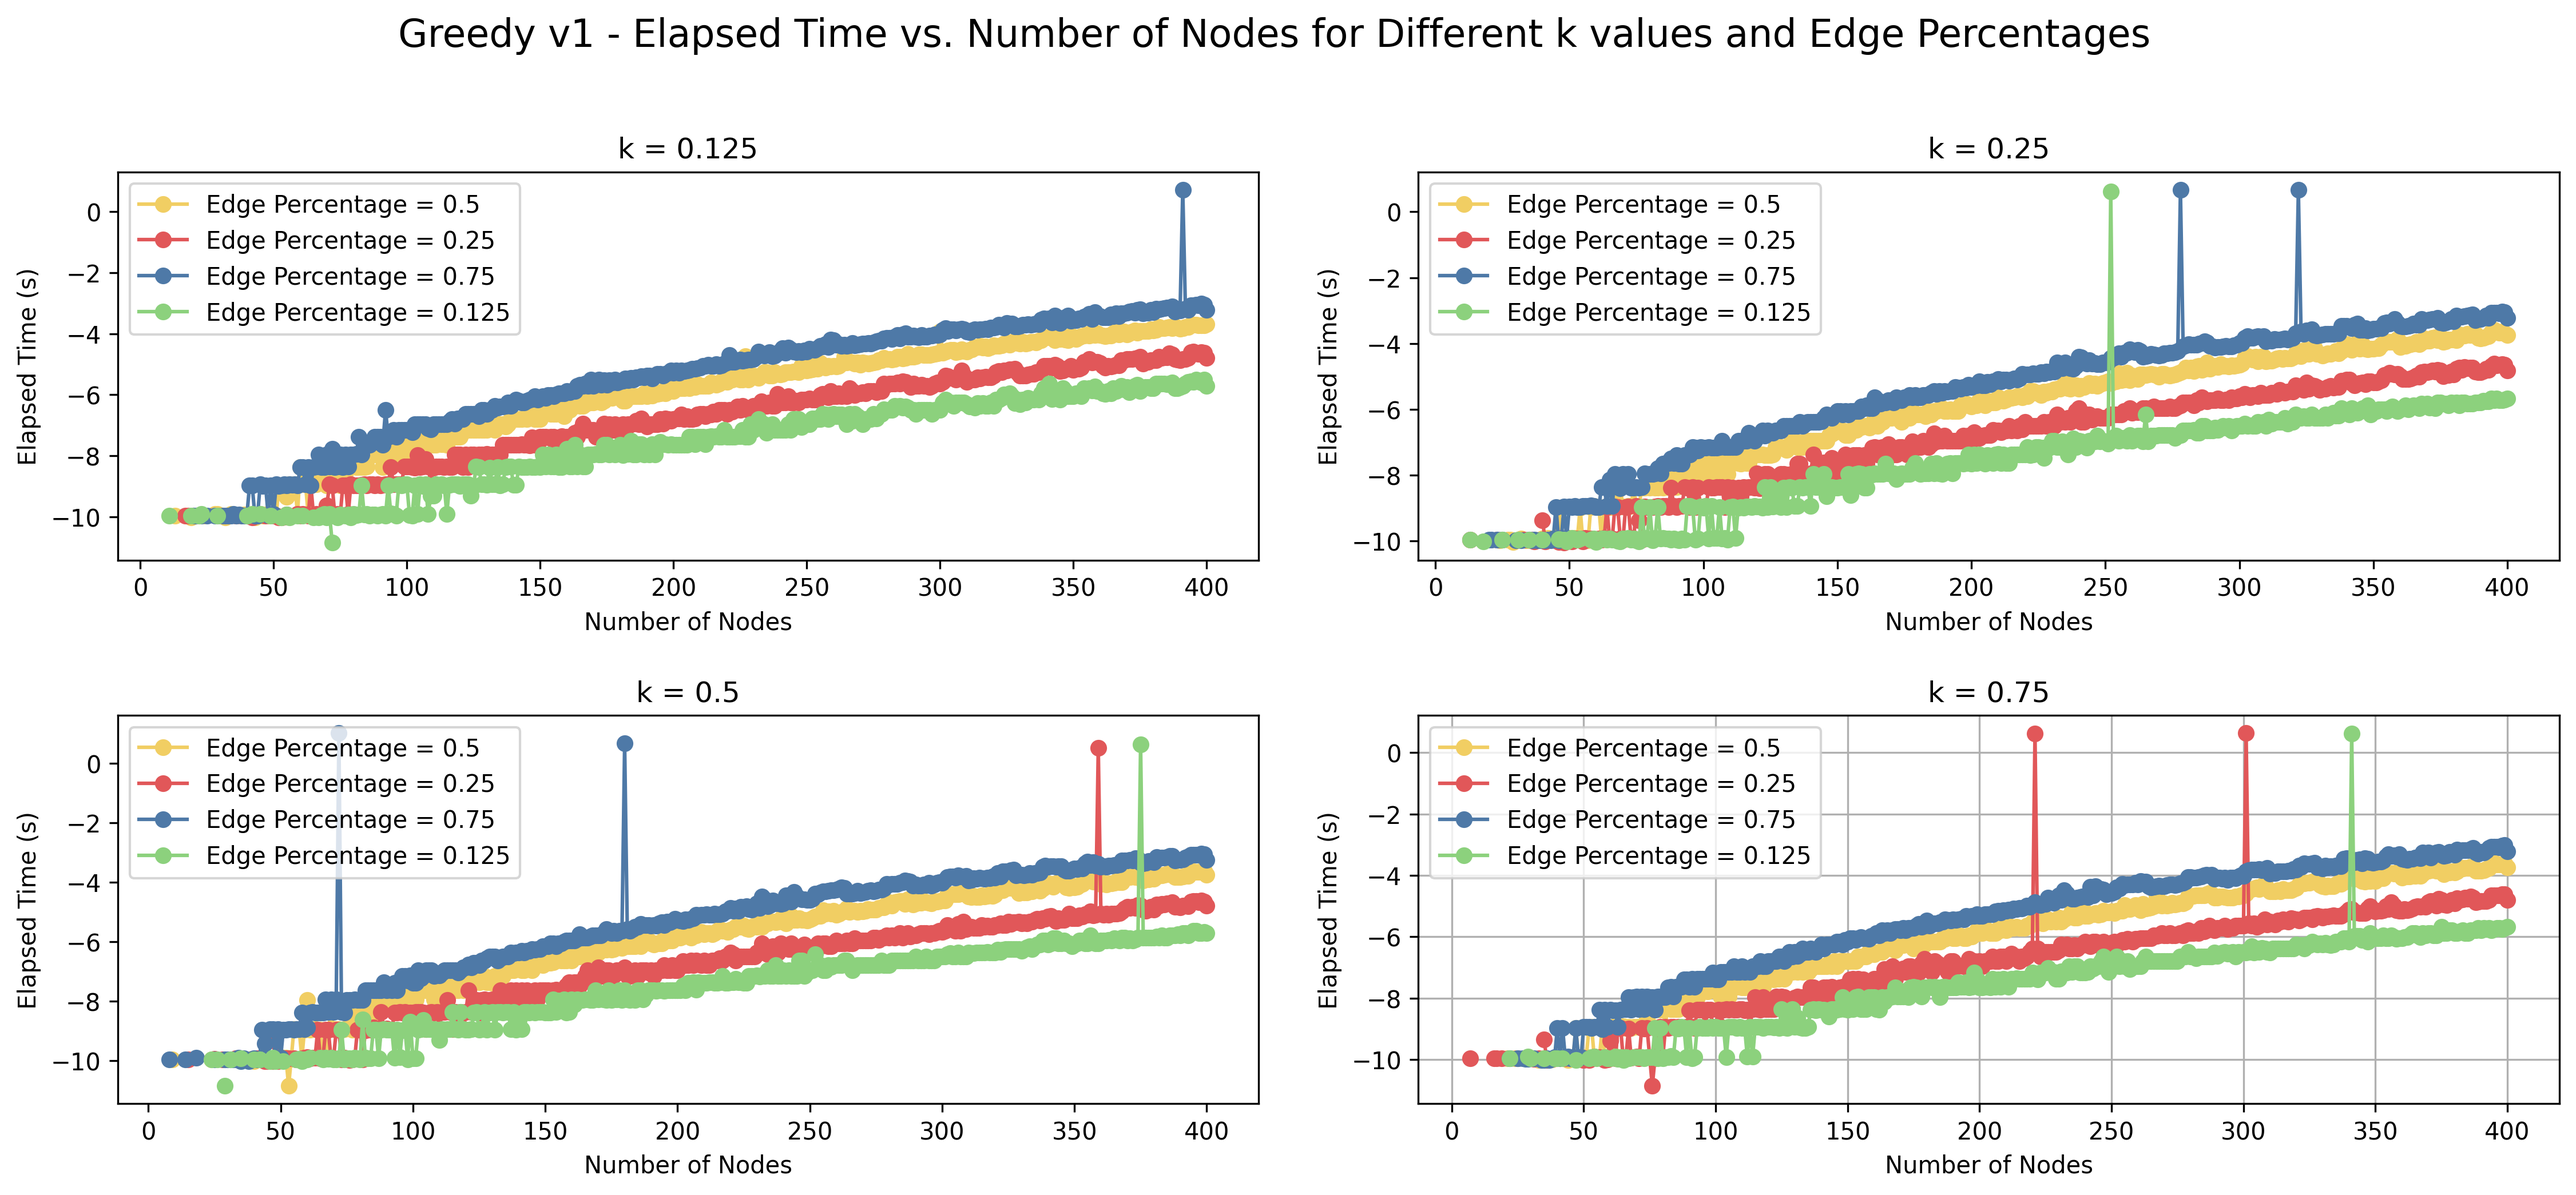
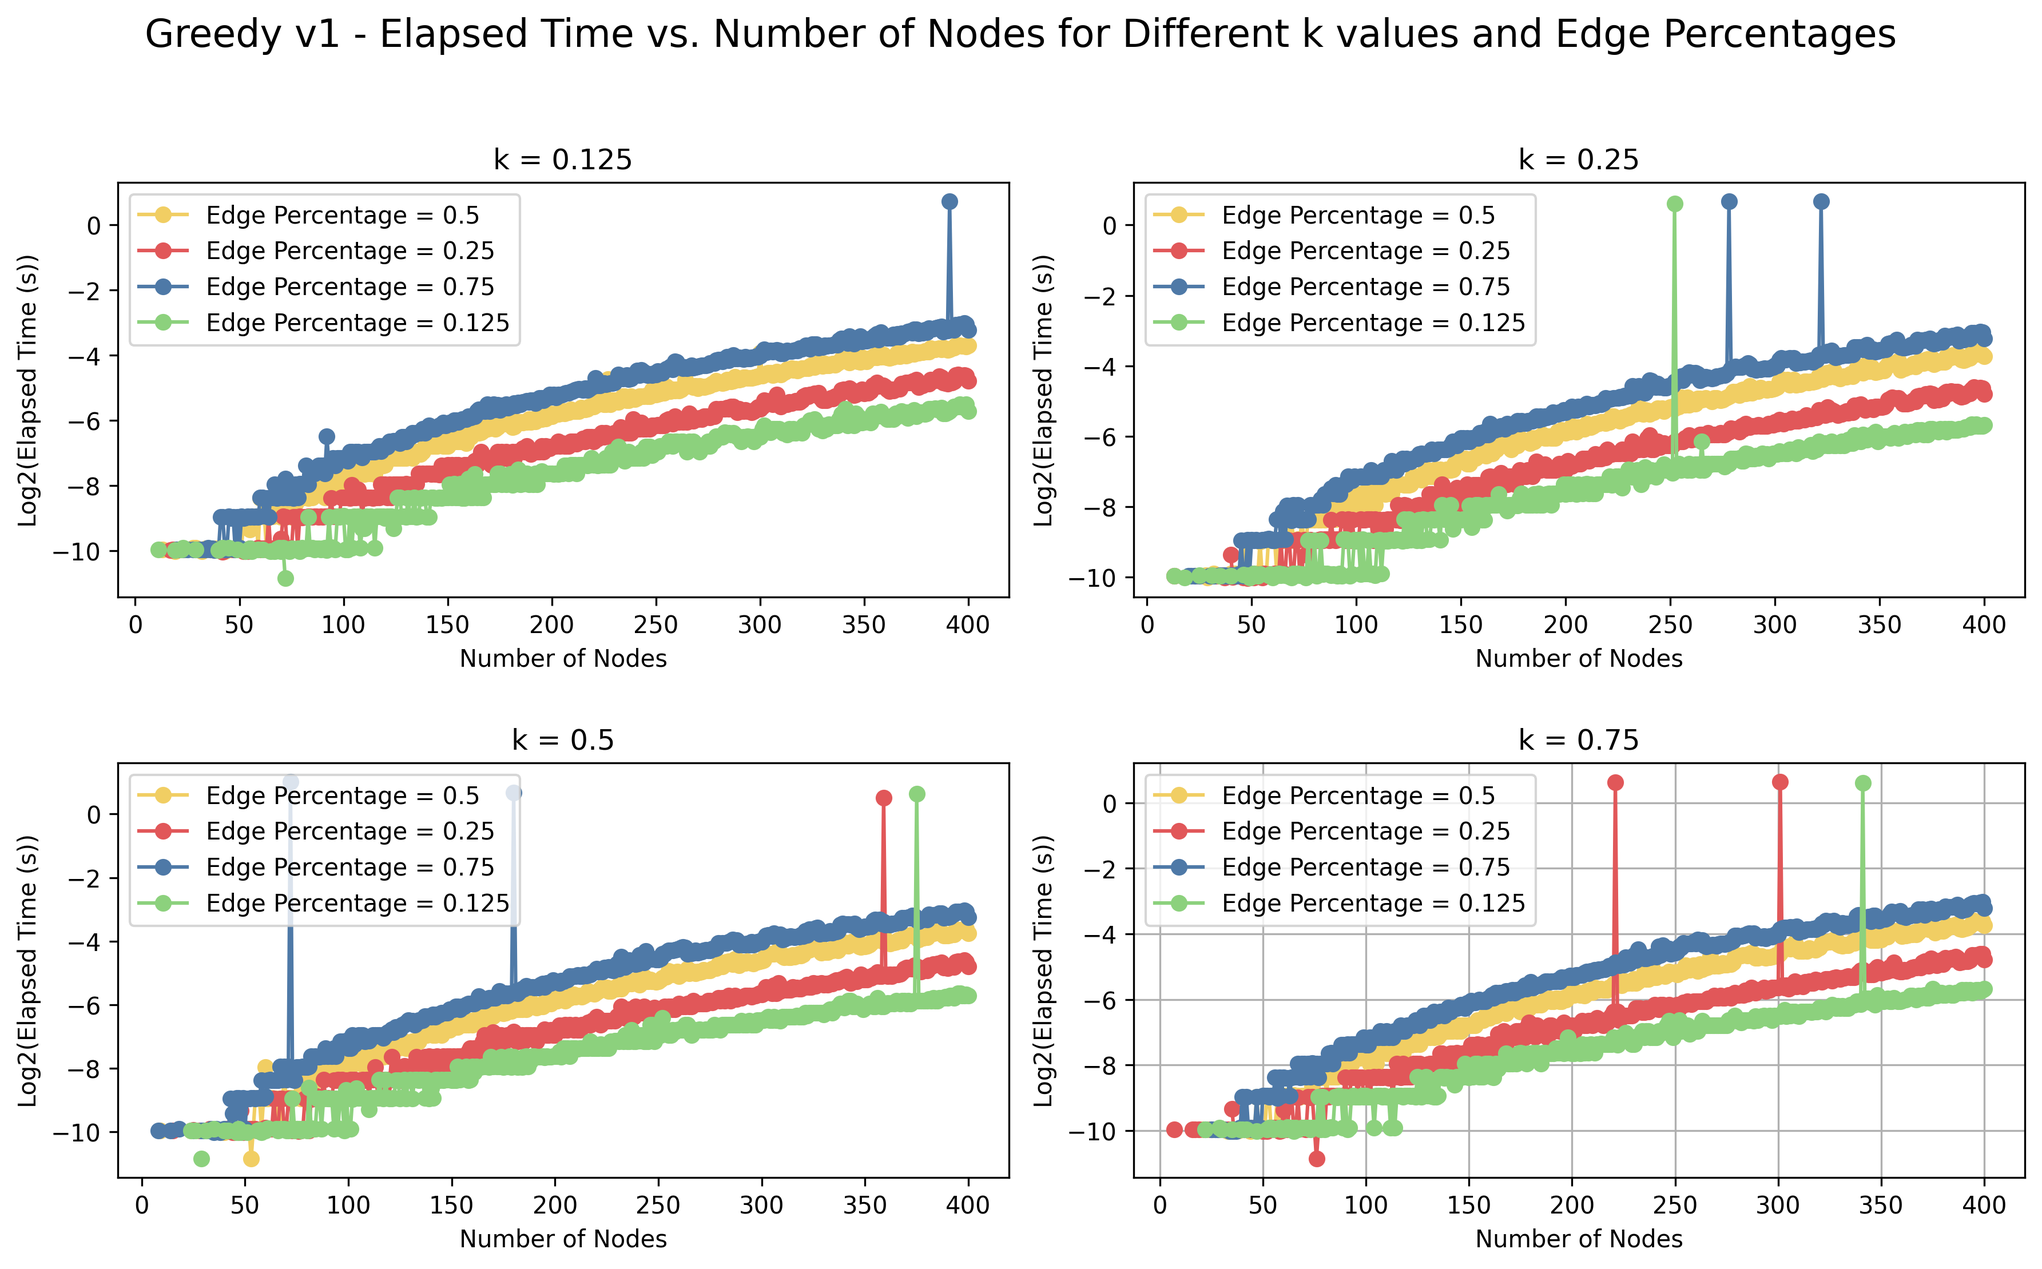
update

diff --git a/independent_set_solver.py b/independent_set_solver.py
@@ -1,3 +1,4 @@
+import glob
 import os
 import time
 from itertools import combinations
@@ -47,11 +48,12 @@ class Algorithm(MultipleValueEnum):
 
 
 class Solution:
-    def __init__(self, solution: set, result: bool, elapsed_time: float, graph: Graph, algorithm: Algorithm,
+    def __init__(self, solution: set, result: bool, count: int, elapsed_time: float, graph: Graph, algorithm: Algorithm,
                  independent_k: int,
                  k: float):
         self.solution = solution
         self.elapsed_time = elapsed_time
+        self.count = count
         self.graph = graph
         self.algorithm = algorithm
         self.k = k
@@ -59,7 +61,7 @@ class Solution:
         self.result = result
 
     def validate(self):
-        if self.solution is None:
+        if self.solution is None or not self.result:
             return True
 
         if len(self.solution) != self.independent_k:
@@ -183,12 +185,18 @@ class IndependentSetSolver:
         if save:
             os.makedirs(directory, exist_ok=True)
             with open(f'{directory}/{filename}', 'w') as file:
-                file.write("name,nodes,edges,edge_percentage,algorithm,k,independent_k,result,solution,elapsed_time\n")
+                file.write("name;nodes;edges;edge_percentage;algorithm;k;independent_k;result;solution;elapsed_time\n")
 
-        solutions = SolutionSet([
-            self._solve_single(func, graph, algorithm, kn, visualize, save, directory, filename) for graph in graphs for
-            kn in k
-        ])
+        # solutions = SolutionSet([
+        #     self._solve_single(func, graph, algorithm, kn, visualize, save, directory, filename) for graph in graphs for
+        #     kn in k
+        # ])
+
+        solutions = SolutionSet([])
+
+        for graph in graphs:
+            for kn in k:
+                self._solve_single(func, graph, algorithm, kn, visualize, save, directory, filename)
 
         return solutions
 
@@ -200,10 +208,18 @@ class IndependentSetSolver:
         start_time = time.time()
         result = func(graph.copy(), independent_k)
         elapsed_time = time.time() - start_time
-        result, solution = result if isinstance(result, tuple) else (result, None)
+        if isinstance(result, tuple):
+            if len(result) == 2:
+                result, count, solution = result[0], None, result[1]
+            else:
+                result, count, solution = result
+
+        else:
+            result, count, solution = result, None, None
+
         logger.info(
             f"No independent set found" if result is None else f"Solution {result} found in {elapsed_time} seconds")
-        solution = Solution(solution, result, elapsed_time, graph, algorithm, independent_k, k)
+        solution = Solution(solution, result, count, elapsed_time, graph, algorithm, independent_k, k)
 
         if visualize:
             logger.info(f"Visualizing solution for {solution}")
@@ -216,24 +232,25 @@ class IndependentSetSolver:
 
     def _write_solution_to_file(self, solution, directory, filename):
         with open(f'{directory}/{filename}', 'a') as file:
-            file.write(f"{solution.graph.name}," +
-                       f"{solution.graph.number_of_nodes()}," +
-                       f"{solution.graph.number_of_edges()}," +
-                       f"{solution.graph.edge_percentage()}," +
-                       f"{solution.algorithm.value}," +
-                       f"{solution.k}," +
-                       f"{solution.independent_k}," +
-                       f"{solution.result}," +
-                       f"{':'.join([str(item) for item in solution.solution]) if solution.solution and solution.result else -1}," +
-                       f"{solution.elapsed_time}\n")
+            file.write(f"{solution.graph.name};" +
+                       f"{solution.graph.number_of_nodes()};" +
+                       f"{solution.graph.number_of_edges()};" +
+                       f"{solution.graph.edge_percentage()};" +
+                       f"{solution.algorithm.value};" +
+                       f"{solution.k};" +
+                       f"{solution.independent_k};" +
+                       f"{solution.result};" +
+                       f"{':'.join([str(item) for item in solution.solution]) if solution.solution and solution.result else -1};" +
+                       f"{solution.elapsed_time};" +
+                       f"{solution.count if solution.count else -1}\n")
 
     def _solve_brute_force(self, graph: Graph, k: int):
         if k == 0:
-            return True
+            return True, set()
         if graph.number_of_nodes() == 0:
-            return False
+            return False, None
         if k > graph.number_of_nodes():
-            return False
+            return False, None
         nodes = list(graph.nodes())
         for subset in combinations(nodes, k):
             is_independent_set = True
@@ -253,15 +270,11 @@ class IndependentSetSolver:
         if k > graph.number_of_nodes():
             return False, None
         if v := next((node for node, d in graph.degree() if d <= 1), None):
-            result, solution = self._solve_clever(graph.subgraph(set(graph.nodes) - (set(graph.neighbors(v)) | {v})),
-                                                  k - 1)
+            result, solution = self._solve_clever(graph.removed_adjacency_subgraph(v), k - 1)
             return (result, solution) if not result else (result, solution | {v})
         if v := next((node for node, d in graph.degree() if d >= 3), None):
-            result_inc, solution_inc = self._solve_clever(
-                graph.subgraph(set(graph.nodes) - (set(graph.neighbors(v)) | {v})), k - 1)
-            result_exc, solution_exc = self._solve_clever(graph.subgraph(set(graph.nodes) - {v}), k)
-            return (result_inc, solution_inc | {v}) if result_inc else (result_exc, solution_exc)
-
+            result_inc, solution_inc = self._solve_clever(graph.removed_adjacency_subgraph(v), k - 1)
+            return result_inc, solution_inc | {v} if result_inc else self._solve_clever(graph.removed_node_subgraph(v), k)
         components = list(nx.connected_components(graph))
         if sum(len(c) // 2 for c in components) >= k:
             selected_nodes = set()
@@ -289,8 +302,7 @@ class IndependentSetSolver:
                 return True, mis
             node = min(graph.nodes(), key=lambda x: graph.degree(x))
             mis.add(node)
-            graph.remove_nodes_from(list(graph.neighbors(node)))
-            graph.remove_node(node)
+            graph.remove_adjacency(node)
         return False, None
 
     def _solve_greedy_heuristics_v2(self, graph: Graph, k: int):
@@ -306,8 +318,7 @@ class IndependentSetSolver:
                 return True, mis
             node = graph.pick_best_vertex()
             mis.add(node)
-            graph.remove_nodes_from(list(graph.neighbors(node)))
-            graph.remove_node(node)
+            graph.remove_adjacency(node)
         return False, None
 
     def _get_k_percentage_nodes(self, graph: Graph, k: float):
@@ -316,10 +327,10 @@ class IndependentSetSolver:
 
 def main():
     student_number = 102885
-    num_vertices = (4, 5, 6)
+    num_vertices = tuple(range(80, 401))
     edge_percentages = (0.125, 0.25, 0.5, 0.75)
 
-    graphs = GraphGenerator.load_graphs('graphs')
+    graphs = GraphGenerator.load_graphs(files=glob.glob(f'graphs/graph_5*.gml'))
 
     k = (0.125, 0.25, 0.5, 0.75)
     solver = IndependentSetSolver(k)
@@ -330,7 +341,7 @@ def main():
         osSleep = WindowsInhibitor()
         osSleep.inhibit()
 
-    solutions = solver.solve(graphs, Algorithm.CLEVER)
+    solutions = solver.solve(graphs, Algorithm.GREEDY_V2, save=True, filename='results_greedu-3.csv')
 
     if osSleep:
         osSleep.uninhibit()

diff --git a/validator.py b/validator.py
@@ -25,6 +25,35 @@ def extract_nodes(solution_str):
     return node_set
 
 
+def compare_solutions(solutions_file1, solutions_file2):
+    # check the results for every line
+    solutions1 = pd.read_csv(solutions_file1, sep=';')
+    solutions2 = pd.read_csv(solutions_file2, sep=';')
+
+    invalid_solutions = []
+
+    merged_solutions = solutions1.merge(solutions2, on=['name', 'k'], how='inner', suffixes=('_1', '_2'))
+
+    for index, row in merged_solutions.iterrows():
+        name = row['name']
+        k = row['k']
+        result1, result2 = row['result_1'], row['result_2']
+
+        logger.debug(f"Comparing solution for graph {name} and k = {k}")
+
+        logger.debug(f"row = {row.to_dict()}")
+
+        logger.info(f"result1 = {result1}, result2 = {result2}")
+
+        if result1 != result2:
+            logger.error(f"Solution for graph {name} is different")
+            invalid_solutions.append((name, k, "different"))
+        else:
+            logger.success(f"Solution for graph {name} is the same and k = {k}")
+
+    return invalid_solutions, len(solutions1.index), len(solutions1[solutions1['result'] == True].index)
+
+
 def validate_solutions(graph_dir, solutions_file, visualize=False):
     solutions = pd.read_csv(solutions_file, sep=';')
 
@@ -35,10 +64,13 @@ def validate_solutions(graph_dir, solutions_file, visualize=False):
 
         solution_str = row['solution']
         name = row['name']
+        result = row['result']
+
+        if not result:
+            continue
 
         nodes = extract_nodes(solution_str)
         graph = GraphGenerator.load_graph(os.path.join(graph_dir, name))
-
 
         solution = Solution(nodes, bool(row['result']), float(row['elapsed_time']), graph, Algorithm(row['algorithm']),
                             int(row['independent_k']), float(row['k']))
@@ -55,8 +87,28 @@ def validate_solutions(graph_dir, solutions_file, visualize=False):
     return invalid_solutions
 
 
+def correct_file(solutions_file):
+    with open(solutions_file, 'r') as infile, open(f'{solutions_file}_modified', 'w') as outfile:
+        for line in infile:
+            # Split the line into fields using a comma as the delimiter
+            fields = line.strip().split(',', maxsplit=8)
+
+            modified_fields = fields[:-1] + fields[-1].rsplit(',', maxsplit=1)
+
+            new_line = ';'.join(modified_fields) + '\n'
+
+            outfile.write(new_line)
+
+
 def main():
-    invalid_solutions = validate_solutions('graphs', 'out/results_clever.csv')
+    # invalid_solutions, total_lines, total_positive_lines = compare_solutions('out/results_clever.csv', 'out/results_greedy_v1.csv')
+    # print(f"Number of positive lines = {total_positive_lines}")
+    # print(f"Number of invalid solutions = {len(invalid_solutions)}")
+    # print(f"False negative rate = {len(invalid_solutions) / total_positive_lines * 100}%")
+    # print(f"Percentage of invalid solutions = {len(invalid_solutions) / total_lines * 100}%")
+    # print(f"Invalid solutions = {invalid_solutions}")
+
+    invalid_solutions = validate_solutions('graphs', 'out/results_greedu-3.csv')
     print(f"Number of invalid solutions = {len(invalid_solutions)}")
     print(f"Invalid solutions = {invalid_solutions}")
 

diff --git a/graph_generator.py b/graph_generator.py
@@ -1,5 +1,5 @@
-import ast
 import os.path
+import re
 from typing import List, Tuple, Union
 import networkx as nx
 import matplotlib
@@ -66,6 +66,16 @@ class Graph(nx.Graph):
         plt.title(self.name)
         nx.draw(self, with_labels=True, node_size=200, node_color='lightblue', font_size=8)
         plt.show()
+
+    def removed_node_subgraph(self, node):
+        return self.subgraph(set(self.nodes()) - {node})
+
+    def removed_adjacency_subgraph(self, node):
+        return self.subgraph(set(self.nodes()) - set(self.neighbors(node)) - {node})
+
+    def remove_adjacency(self, node):
+        self.remove_nodes_from(list(self.neighbors(node)))
+        self.remove_node(node)
 
     def pick_best_vertex(self):
         degree = 1
@@ -197,9 +207,17 @@ class GraphGenerator:
         return int(num_vertices * (num_vertices - 1) / 2)
 
     @staticmethod
-    def load_graphs(path: str):
+    def load_graphs(path: str = os.getcwd(), files: List[str] = None):
+        if files is not None:
+            logger.info(f"Loading graphs from files {files}")
+            return [GraphGenerator.load_graph(os.path.join(path, file)) for file in files]
+
         logger.info(f"Loading graphs from {path}")
-        return [GraphGenerator.load_graph(os.path.join(path, filename)) for filename in os.listdir(path) if
+
+        def natural_sort_key(s):
+            return [int(text) if text.isdigit() else text.lower() for text in re.split('(\\d+)', s)]
+
+        return [GraphGenerator.load_graph(os.path.join(path, filename)) for filename in sorted(os.listdir(path), key=natural_sort_key) if
                 filename.endswith('.gml')]
 
     @staticmethod

diff --git a/plotter.py b/plotter.py
@@ -54,7 +54,7 @@ def visualize_elapsed_default(df, algorithm, out=None):
                     marker='o', color=color)
 
         ax.set_xlabel('Number of Nodes')
-        ax.set_ylabel('Elapsed Time (s)')
+        ax.set_ylabel('Log2(Elapsed Time (s))')
 
         ax.legend(loc='upper left')
 
